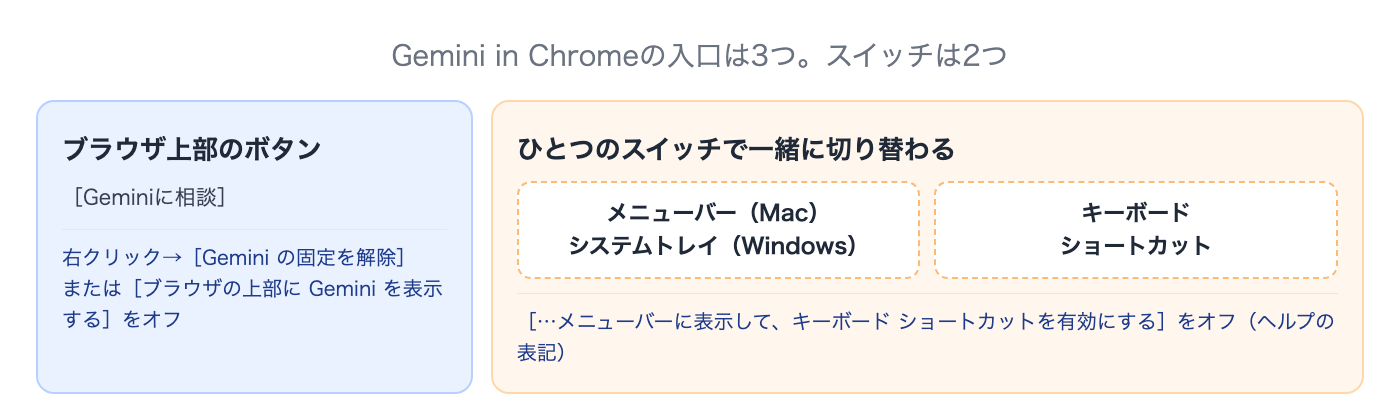
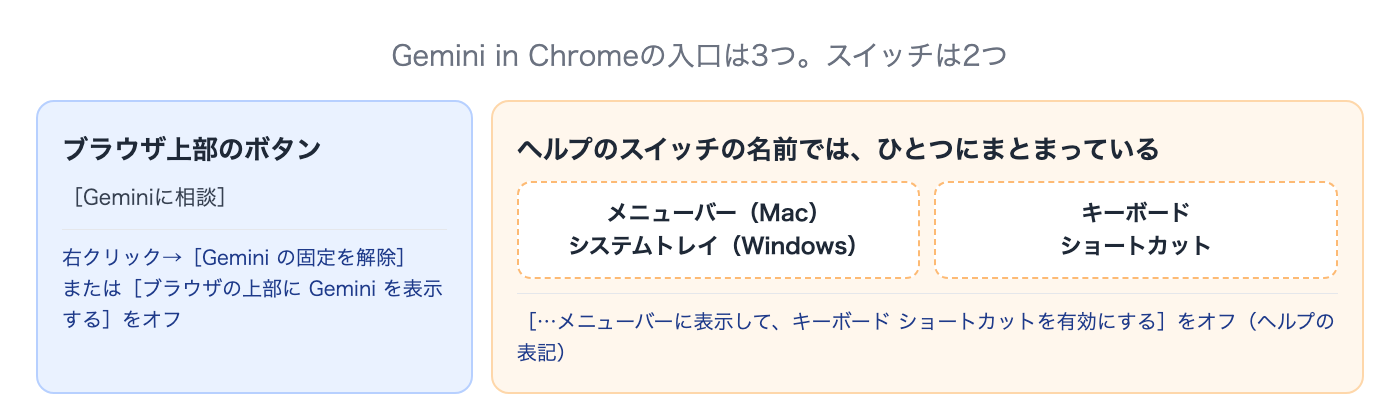
chrome-gemini-remove: 添削の反映

Changed region(s): [[0.3686, 0.3095, 0.8293, 0.4024]]

diff --git a/media/posts/chrome-gemini-remove.md b/media/posts/chrome-gemini-remove.md
@@ -24,7 +24,7 @@ Chromeの右上にある「Geminiに相談」は、Chromeに組み込まれたGe
 
 ヘルプによれば、Gemini in Chromeを有効にすると、入口は3つになります。ブラウザの上部のボタン、Macのメニューバー（Windowsはシステムトレイ）のアイコン、キーボードのショートカットです。
 
-<figure class="post-figure"><img src="/media/images/chrome-gemini-remove/01_fig_where.png" alt="Gemini in Chromeの入口3つと消し方の図。ブラウザ上部の［Geminiに相談］ボタンは右クリックで固定を解除するか設定のブラウザの上部にGeminiを表示するをオフ。Macのメニューバー（Windowsのシステムトレイ）のアイコンとキーボードショートカットは、設定のひとつのスイッチでまとめてオンとオフが切り替わる" loading="lazy"><figcaption>ボタンを消しても、ほかの2つの入口は残る</figcaption></figure>
+<figure class="post-figure"><img src="/media/images/chrome-gemini-remove/01_fig_where.png" alt="Gemini in Chromeの入口3つと消し方の図。ブラウザ上部の［Geminiに相談］ボタンは右クリックで固定を解除するか設定のブラウザの上部にGeminiを表示するをオフ。Macのメニューバー（Windowsのシステムトレイ）のアイコンとキーボードショートカットは、ヘルプのスイッチの名前では、ひとつにまとまっている" loading="lazy"><figcaption>ボタンを消しても、ほかの2つの入口は残る</figcaption></figure>
 
 ボタンを消すだけでよいのか、ショートカットまで止めたいのかで、触る設定が変わります。
 
@@ -44,7 +44,7 @@ Chromeの右上にある「Geminiに相談」は、Chromeに組み込まれたGe
 
 ## ショートカットまで止める
 
-ボタンを消したあとも開けてしまうのは、ショートカットが生きているからです。初期のショートカットはWindowsが［Alt］+［G］、Macが［control］+［G］と紹介している解説があります（[did2memo.net](https://did2memo.net/2026/04/26/chrome-gemini-button-hide/)、2026年4月の記事）。
+ボタンを消したあとも開けてしまうのは、ショートカットか、メニューバー（システムトレイ）のアイコンが残っているからです。初期のショートカットはWindowsが［Alt］+［G］、Macが［control］+［G］と紹介している解説があります（[did2memo.net](https://did2memo.net/2026/04/26/chrome-gemini-button-hide/)、2026年4月の記事）。
 
 ヘルプの設定画面の説明では、ショートカットはメニューバーのアイコンと同じスイッチにまとまっています。
 
@@ -71,7 +71,7 @@ Chromeの右上にある「Geminiに相談」は、Chromeに組み込まれたGe
 
 逆に、ボタンがそもそも出てこない場合です。ヘルプが挙げる条件を満たしていない可能性があります。
 
-- 13歳以上で、対応している地域に住んでいる（ヘルプの一覧に日本がある）
+- 対応している地域に住んでいて、年齢の条件を満たしている。対応地域の一覧は年齢で分かれていて、日本はどちらの一覧にも出てきます。年齢の条件はヘルプの一覧で確かめてください
 - Mac・Windows・Chromebook Plusのパソコンを使っている
 - Chromeが最新のバージョン
 - Chromeにログインしている。**シークレット モードでは使えない**
@@ -84,7 +84,7 @@ Chromeの右上にある「Geminiに相談」は、Chromeに組み込まれたGe
 
 ## 会社や家族のアカウントで止めたいとき
 
-仕事用・学校用のアカウントでは、管理者が有効にしないとGemini in Chromeは使えません。会社のPCでボタンが出ているなら、組織として有効にしている状態です。組織として止めたいなら、社内の管理者に相談してください。
+仕事用・学校用のアカウントでは、管理者が有効にしないとGemini in Chromeは使えません。仕事用のアカウントでログインしていてボタンが出ているなら、組織として有効にしている状態です。組織として止めたいなら、社内の管理者に相談してください。
 
 子どものアカウントについては、保護者がファミリー リンクを使って、Gemini in Chromeへのアクセスをオフにできる、とヘルプに書かれています。
 
